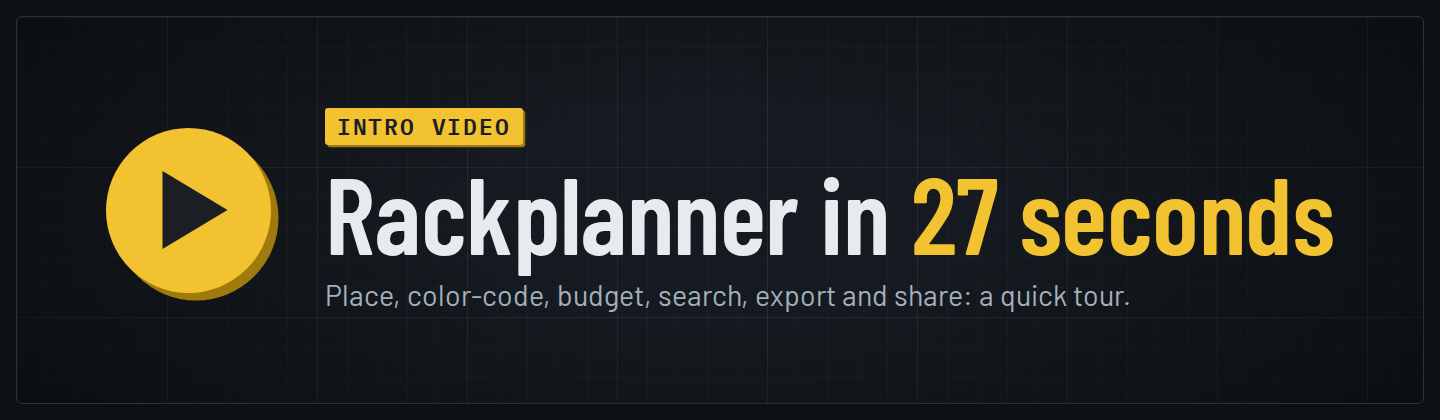
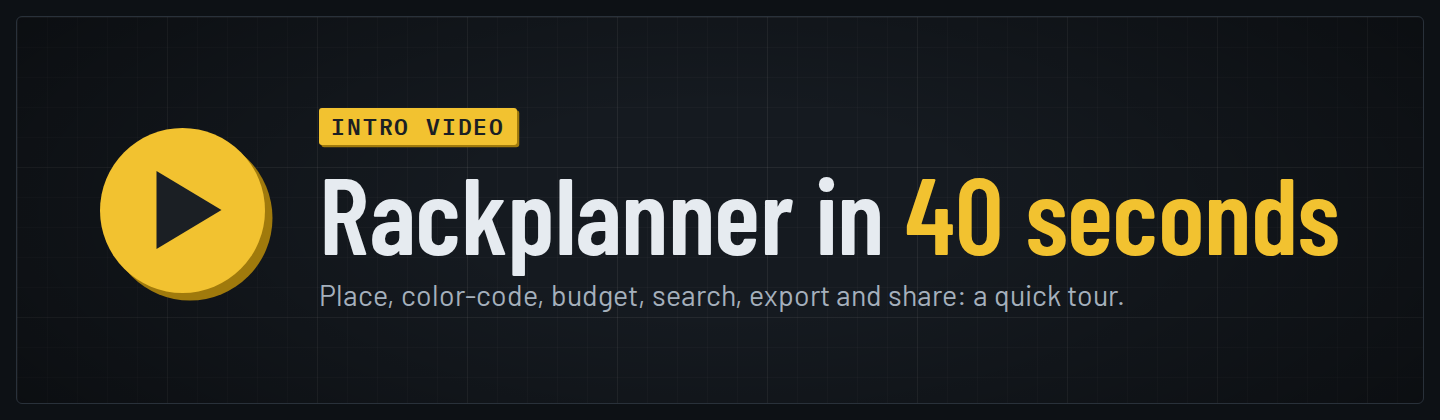
Slow the intro video down to 40 seconds so its text can be read
Feedback said the video was a little too fast to read: each scene's
headline and line of text were on screen for 2.3 to 3.8 seconds, the
closing list of features for 1.6 and the tagline for 0.8.

The story keeps its timing; a pace table now says how much video each
part of it gets. Animations run 1.1 to 1.6 times slower, and the quiet
end of each scene is held while nothing moves, so every scene's text
stays up for about 4 to 5 seconds and the closing page holds until the
video is 40 seconds long. The player page, the README banner and its
alt text say "40 seconds" now.

Claude-Session: https://claude.ai/code/session_01XYA3h8fFbCU3JrGVWvBghC

diff --git a/media/intro.js b/media/intro.js
@@ -1,11 +1,12 @@
 /*
- * Rackplanner intro video: 27 seconds of motion graphics.
+ * Rackplanner intro video: 40 seconds of motion graphics.
  *
- * Every frame is a pure function of the time t in seconds: render(t) poses
- * the whole stage, so frames can be drawn in any order. The racks, devices,
- * CSV and share link come from the app's own code and its example plan.
- * media/record.js steps through the frames and encodes them; opened in a
- * browser, the page plays in real time (?t=12.5 holds one moment).
+ * Every frame is a pure function of time: render(t) poses the whole stage at
+ * time t of the story, so frames can be drawn in any order, and PACE says how
+ * much video each part of the story gets. The racks, devices, CSV and share
+ * link come from the app's own code and its example plan. media/record.js
+ * steps through the frames and encodes them; opened in a browser, the page
+ * plays in real time (?t=12.5 holds the frame 12.5 s into the video).
  */
 (function () {
   'use strict';
@@ -14,7 +15,8 @@
   const R = RP.render;
   const IO = RP.io;
 
-  const DURATION = 27.5;
+  const STORY = 27.5; // the story's own seconds, which everything below is timed in
+  const LENGTH = 40; // seconds of video
   const URL_SCHEME = 'https://';
   const URL_HOST = 'dennisklein.github.io/rackplanner/';
   const DATE = '2026-10-03';
@@ -49,6 +51,39 @@
   const prog = (t, start, dur, e) => (e || ease.out)(clamp((t - start) / dur));
   /** 0 → 1 → 0: in over `fade` from a, out over `fade` from b. */
   const span = (t, a, b, fade) => Math.min(prog(t, a, fade, ease.inOut), 1 - prog(t, b, fade, ease.inOut));
+
+  // -------------------------------------------------------------- pace
+
+  // Seconds of video per second of story, from one moment of the story to
+  // the next. The animations run a little slower than the story, and the
+  // quiet end of each scene is held, so there is time to read. The closing
+  // page holds until the video is LENGTH seconds long.
+  const PACE = [
+    [0, 1.0, 1.1], [1.0, 1.8, 1.8], [1.8, 2.75, 1.1], // the logo, its tagline, into the app window
+    [2.75, 5.9, 1.2], [5.9, 6.25, 3], // devices drop in; Row A full
+    [6.25, 6.75, 1.1], [6.75, 9.35, 1.5], // clusters light up
+    [9.35, 10.0, 1.1], [10.0, 11.85, 1.5], [11.85, 12.3, 1.6], // B03 fills up and goes over budget
+    [12.3, 12.95, 1.1], [12.95, 14.55, 1.3], [14.55, 14.85, 5], // the floor map and its search
+    [14.85, 15.5, 1.1], [15.5, 18.3, 1.35], // the catalog
+    [18.3, 19.1, 1.1], [19.1, 21.9, 1.3], [21.9, 22.0, 10], // export and share
+    [22.0, 23.65, 1.15], [23.65, 23.9, 8], // everything else
+    [23.9, 24.9, 1.1], [24.9, 25.8, 1.15], [25.8, STORY, 0], // the stripes; try it now
+  ];
+  const last = PACE[PACE.length - 1];
+  last[2] = (LENGTH - PACE.slice(0, -1).reduce((v, [a, b, f]) => v + (b - a) * f, 0)) / (last[1] - last[0]);
+
+  /** The moment of the story `v` seconds into the video. */
+  function storyAt(v) {
+    let at = 0;
+    for (const [a, b, f] of PACE) {
+      const d = (b - a) * f;
+      if (v <= at + d) return a + (v - at) / f;
+      at += d;
+    }
+    return STORY;
+  }
+  /** How many seconds into the video moment `t` of the story comes. */
+  const videoAt = (t) => PACE.reduce((v, [a, b, f]) => v + Math.max(0, Math.min(t, b) - a) * f, 0);
 
   // -------------------------------------------------------------- dom
 
@@ -798,7 +833,7 @@
   }
 
   function drawOutro(t) {
-    const zoom = 1 + 0.025 * prog(t, OUTRO, DURATION - OUTRO, ease.sine);
+    const zoom = 1 + 0.025 * prog(t, OUTRO, STORY - OUTRO, ease.sine);
     els.outro.style.transformOrigin = '960px 540px';
     els.outro.style.transform = `scale(${r2(zoom * 1000) / 1000})`;
     const tryK = prog(t, OUTRO + 0.2, 0.6, ease.expo);
@@ -864,9 +899,9 @@
     els.outro.style.visibility = 'visible';
     els.stripW = els.strip.offsetWidth;
 
-    window.DURATION = DURATION;
-    window.POSTER = 1.6; // the title card
-    window.seek = render;
+    window.DURATION = LENGTH;
+    window.POSTER = videoAt(1.6); // the title card
+    window.seek = (v) => render(storyAt(v));
     window.introReady = true;
 
     const params = new URLSearchParams(location.search);
@@ -876,10 +911,10 @@
     const fit = () => (stage.style.transform = `scale(${Math.min(innerWidth / 1920, innerHeight / 1080)})`);
     addEventListener('resize', fit);
     fit();
-    if (params.has('t')) return render(Number(params.get('t')) || 0);
+    if (params.has('t')) return render(storyAt(Number(params.get('t')) || 0));
     const t0 = performance.now();
     const tick = (now) => {
-      render(((now - t0) / 1000) % DURATION);
+      render(storyAt(((now - t0) / 1000) % LENGTH));
       requestAnimationFrame(tick);
     };
     requestAnimationFrame(tick);

diff --git a/media/index.html b/media/index.html
@@ -10,7 +10,7 @@
 <meta name="viewport" content="width=device-width, initial-scale=1">
 <meta name="color-scheme" content="dark">
 <title>Rackplanner intro video</title>
-<meta name="description" content="A 27-second tour of Rackplanner, a planner for datacenter rack layouts that runs in the browser.">
+<meta name="description" content="A 40-second tour of Rackplanner, a planner for datacenter rack layouts that runs in the browser.">
 <meta property="og:title" content="Rackplanner intro video">
 <meta property="og:type" content="video.other">
 <meta property="og:image" content="https://dennisklein.github.io/rackplanner/media/rackplanner-intro.jpg">
@@ -87,7 +87,7 @@
   </header>
 
   <span class="tag">INTRO VIDEO</span>
-  <h1>Rackplanner in 27 seconds</h1>
+  <h1>Rackplanner in 40 seconds</h1>
   <p class="lead">Place devices, color-code clusters, watch power and weight budgets, find anything on the floor map,
     edit your own device and rack types, then export or share the plan.</p>
 

diff --git a/docs/screenshots.js b/docs/screenshots.js
@@ -132,7 +132,7 @@ async function introVideo(browser, colorScheme, name) {
       <div class="play"><svg viewBox="0 0 10 12"><path d="M0 0L10 6 0 12z" fill="#1b1f24"/></svg></div>
       <div>
         <span class="tag">INTRO VIDEO</span>
-        <h1>Rackplanner in <em>27 seconds</em></h1>
+        <h1>Rackplanner in <em>40 seconds</em></h1>
         <p>Place, color-code, budget, search, export and share: a quick tour.</p>
       </div>
     </div>`);

diff --git a/README.md b/README.md
@@ -3,7 +3,7 @@
 <a href="https://dennisklein.github.io/rackplanner/media/">
   <picture>
     <source media="(prefers-color-scheme: dark)" srcset="docs/screenshots/intro-video-dark.png">
-    <img src="docs/screenshots/intro-video.png" alt="Watch the intro video: Rackplanner in 27 seconds, a quick tour of placing, color-coding, budgets, search, export and sharing.">
+    <img src="docs/screenshots/intro-video.png" alt="Watch the intro video: Rackplanner in 40 seconds, a quick tour of placing, color-coding, budgets, search, export and sharing.">
   </picture>
 </a>
 
